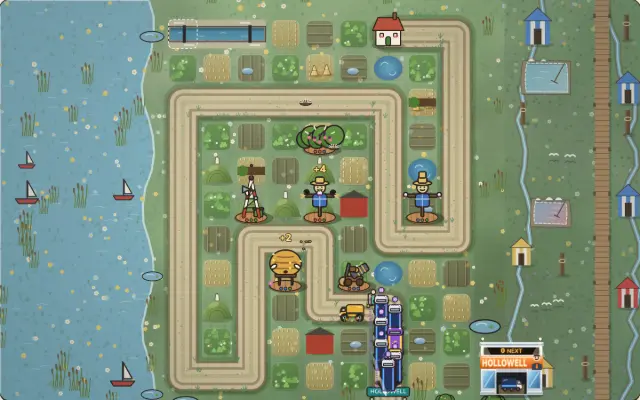
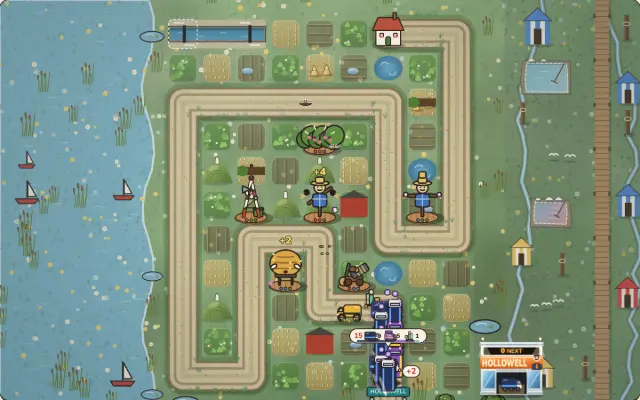
Hedgerow: the greyscale check over every vehicle; the lobbyist and the director's car get shapes of their own (plan item 285 done); key art re-shot; lane B notes, release .build-lock-b
Claude-Session: https://claude.ai/code/session_01SimvMN1RHBGCWN7Eo7MzhN

Changed region(s): [[0.5, 0.72, 0.6875, 0.99], [0.4688, 0.42, 0.5312, 0.54], [0.4375, 0.57, 0.5, 0.63]]

diff --git a/games/hedgerow/src/sprites.ts b/games/hedgerow/src/sprites.ts
@@ -1817,6 +1817,19 @@ export function drawEnemy(ctx: C, look: EnemyLook, x: number, y: number, s0: num
       break;
     case "director":
       vehicle(ctx, 0, 0, s, tt, { len: 0.8, h: 0.24, body: "#1d1f24", cab: "#1d1f24", stripe: "#d4ae58", wheels: 2 });
+      // Plan item 285: a pennant on the bonnet (the longer exec car has none), so it reads apart in greyscale.
+      if (fromAbove) rr(ctx, s * 0.3, -s * 0.02, s * 0.1, s * 0.04, s * 0.01, "#f4f6f8");
+      else {
+        rr(ctx, s * 0.28, -s * 0.5, s * 0.015, s * 0.22, s * 0.005, "#c9d0d6");
+        ctx.fillStyle = "#f4f6f8";
+        ctx.beginPath();
+        ctx.moveTo(s * 0.295, -s * 0.5);
+        ctx.lineTo(s * 0.43, -s * 0.45);
+        ctx.lineTo(s * 0.295, -s * 0.4);
+        ctx.closePath();
+        ctx.fill();
+        ctx.stroke();
+      }
       break;
     case "clinic":
       vehicle(ctx, 0, 0, s, tt, { len: 0.72, h: 0.36, body: "#f7fbfa", stripe: "#7fd1b9", label: "+", labelColor: "#2f9a7c", wheels: 3 });
@@ -2097,6 +2110,10 @@ export function drawEnemy(ctx: C, look: EnemyLook, x: number, y: number, s0: num
         ctx.beginPath();
         ctx.arc(hx, hy - s * 0.03, s * 0.08, Math.PI, 0);
         ctx.fill();
+        // Plan item 285: a clipboard held up beside the head (the lawyer carries a briefcase low), so the two read
+        // apart in greyscale and in outline.
+        rr(ctx, -s * 0.26, hy - s * 0.1, s * 0.13, s * 0.17, s * 0.015, "#f4f6f8");
+        rr(ctx, -s * 0.22, hy - s * 0.12, s * 0.05, s * 0.03, s * 0.01, "#3a3d44");
       });
       break;
     case "carrier": {

diff --git a/games/hedgerow/src/main.ts b/games/hedgerow/src/main.ts
@@ -799,6 +799,8 @@ if (SANDBOX)
     silhouette: towerSilhouette,
     // Plan item 105: a vehicle's 2D silhouette and drawn length at a cell size.
     enemySilhouette,
+    // Plan item 285: every vehicle's icon, for the greyscale contact sheet.
+    enemyIcon,
     // Plan item 64: pin a round-end rosette now (e2e checks it covers no plot), and the plot cells' boxes.
     rosette: (round: number, reward: number, clean: boolean) => game && roundRosette(game, round, reward, clean),
     plotBoxes: () => (game ? plotBoxes(game) : []),

diff --git a/docs/plan/two-week-plan.md b/docs/plan/two-week-plan.md
@@ -2824,7 +2824,7 @@ The items come from fresh-eyes audits on 2026-11-01 and 2026-11-02 (items 25-32:
 - **Accept:** at D her face 40 px+ tall at the default camera, eyes, liner and the raised right brow visible; a cheer on a wave clear (e2e hook); draw calls +30 or fewer; gate 1 holds; hedgerow 3D specs pass; shots P and D, 3D and `?2d`.
 - **Size:** 2
 
-## 285. [ ] Hedgerow 2D: the fleet as characterful, animated sprites *(lane B, in progress)* *(slice 1, 2026-11-08 09:46 lane B: a van that falls tips and spills three parcels that tumble across the lane over 0.5 s (none under reduced motion); `window.hedgerow2d.tip(kind, x, y)` in the sandbox stages it. Checked, already there: a driver in the cab (item 256), a wheel bob, exhaust puffs, a hit flash and squash, vines on a slowed vehicle. Size: on a vertical lane, side-on sprites past 1x overhang the plots (item 266), so 44 px at D needs top-down sprites for up/down runs: left for a later slice. vehicles, gatequeue, depot, swarm, critique pass (55); key art re-shot; shots scratchpad tips2)* *(09:55, **tried and reverted:** five health pips over damaged big vehicles: on D l34 a round is 144+ lorries nose to tail (shot scratchpad pip-24), so bars over each would bury the lane; damage keeps reading by the cracks (crackStage). A pip bar fits bosses only, if at all. Left: top-down sprites for up/down lane runs so vehicles can reach 44 px at D, greyscale distinction check, a sprite-per-id unit test)* *(slice 2, 2026-11-08 10:45 lane B: `tests/hedgerow-sprites-all.test.ts` draws every enemy id (39) into a recording canvas and checks each draws a body of its own, with a control that an unknown id draws only its shadow. Left: top-down sprites for up/down runs (44 px at D), greyscale check)* *(2026-11-08 11:30 lane B, checked: in greyscale (plan1108c/hedge-l34-2d-D) the Box Lorries read apart by shape (box body, white cab, three wheels). Left: top-down sprites for up/down runs)* *(slice 3, 2026-11-13 02:50 lane B: on an up or down run of the lane the 12 kinds drawn by `vehicle` alone (van, phantom, truck, tender, director, clinic, hatchback, sprinter, lorry, artic, execcar, rival, `TOP_DOWN`) are drawn from above, nose along the lane: roof and cab, a windscreen, the livery down both sides, the label on the roof, wheels at the corners, headlights (`vehicleTop`; `drawEnemy` turns it a quarter about the body's centre from `runOf`, the lane's heading at its distance); the fleet-lock tint and cracks turn with it, status icons stay upright. Key art re-shot. sprites-all, tower-idle, keyart-fresh pass; hedgerow-silhouettes, cath2d, gatequeue, depot pass at P and D (gatequeue's notebook case failed once under load, passes alone); shots scratchpad td285-{D,P}. Left: the other kinds' from-above views (the wrapped van, bus, crane, influencer...), then the 44 px length on vertical runs)* *(slice 4, 2026-11-13 03:40 lane B: ten more kinds from above on up/down runs, each with its extra redrawn for the view: the boss's, convoy's and board's crowns on the roof, the board's four heads through the sunroof, the bus's flag at the roof's tail, the pickup's crate in the bed, the plated lorry's rivets down both sides, the skip's container, the crane's boom folded along it, the dozer's blade across the nose, the transporter's top-deck cars; 22 kinds in `TOP_DOWN`. Key art re-shot. sprites-all (41), keyart-fresh, hedgerow-silhouettes, cath2d, gatequeue, depot pass (27); shots scratchpad td285b-{0,1}. Left: the wrapped van and the influencer (their shells and flourishes), the non-`vehicle` kinds (ship, dozers, courier, borer, quad, carriers...), then the 44 px length on vertical runs)* *(slice 5, 04:00: the wrapped van (its bubble shell an oval over the roof) and the influencer (its ring light glowing over the sunroof, the pole hidden) from above too: every kind drawn by `vehicle` (24) now turns with the lane. Key art re-shot; sprites-all, keyart-fresh, silhouettes, cath2d, gatequeue pass (24); shot scratchpad td285c. Left: the non-`vehicle` kinds (ship, dozers, courier, borer, quad, carriers, the Candor fleet), then the 44 px length on vertical runs)* *(slice 6, 2026-11-13 04:45 lane B: the small vehicles grow so the shortest reads 44 px long at D (28 on a phone) at level 21's 64 px cell (41 px at level 34 on a phone): `enemyScale` maps the side-view length of the hatchback, influencer, rival, pickup, van, phantom, wrapped van, sprinter, tender, truck and director onto 0.69-1.1 of a cell (44-69 px at D), the big ones unchanged; drawing only (the sim and 3D have their own scale). The sprinter gets a high roof (from above a light bar), since at the new size its outline matched the van's (IoU 0.898 before, already at the 0.9 line; 0.77 now). hedgerow-vehicles, gatequeue, silhouettes, cath2d, depot, threat pass (37); sprites-all (41); key art re-shot; shots scratchpad len285-{D,P}. Left: the non-`vehicle` kinds from above (ship, dozers, courier, borer, quad, carriers, Candor), a greyscale distinction shot)* *(slice 7, 2026-11-13 05:40 lane B: the last ground vehicles from above (`TOP_VIEW`): the bulldozer and megadozer (tracks, glass cab roof, blade across the nose, the megadozer's crown), the courier (deck, rider's helmet, parcel box), the borer (its drill across the nose), the container ship (pointed bow, container deck, bridge at the stern). The Candor spheres keep their view (round from any side) and the quads, carriers, drones, blimp and swarm fly (no road heading). Key art re-shot; sprites-all, keyart-fresh, vehicles, gatequeue, silhouettes, cath2d, depot pass (29); shot scratchpad td285d. Left: the greyscale distinction shot, then close)*
+## 285. [x] Hedgerow 2D: the fleet as characterful, animated sprites *(slice 1, 2026-11-08 09:46 lane B: a van that falls tips and spills three parcels that tumble across the lane over 0.5 s (none under reduced motion); `window.hedgerow2d.tip(kind, x, y)` in the sandbox stages it. Checked, already there: a driver in the cab (item 256), a wheel bob, exhaust puffs, a hit flash and squash, vines on a slowed vehicle. Size: on a vertical lane, side-on sprites past 1x overhang the plots (item 266), so 44 px at D needs top-down sprites for up/down runs: left for a later slice. vehicles, gatequeue, depot, swarm, critique pass (55); key art re-shot; shots scratchpad tips2)* *(09:55, **tried and reverted:** five health pips over damaged big vehicles: on D l34 a round is 144+ lorries nose to tail (shot scratchpad pip-24), so bars over each would bury the lane; damage keeps reading by the cracks (crackStage). A pip bar fits bosses only, if at all. Left: top-down sprites for up/down lane runs so vehicles can reach 44 px at D, greyscale distinction check, a sprite-per-id unit test)* *(slice 2, 2026-11-08 10:45 lane B: `tests/hedgerow-sprites-all.test.ts` draws every enemy id (39) into a recording canvas and checks each draws a body of its own, with a control that an unknown id draws only its shadow. Left: top-down sprites for up/down runs (44 px at D), greyscale check)* *(2026-11-08 11:30 lane B, checked: in greyscale (plan1108c/hedge-l34-2d-D) the Box Lorries read apart by shape (box body, white cab, three wheels). Left: top-down sprites for up/down runs)* *(slice 3, 2026-11-13 02:50 lane B: on an up or down run of the lane the 12 kinds drawn by `vehicle` alone (van, phantom, truck, tender, director, clinic, hatchback, sprinter, lorry, artic, execcar, rival, `TOP_DOWN`) are drawn from above, nose along the lane: roof and cab, a windscreen, the livery down both sides, the label on the roof, wheels at the corners, headlights (`vehicleTop`; `drawEnemy` turns it a quarter about the body's centre from `runOf`, the lane's heading at its distance); the fleet-lock tint and cracks turn with it, status icons stay upright. Key art re-shot. sprites-all, tower-idle, keyart-fresh pass; hedgerow-silhouettes, cath2d, gatequeue, depot pass at P and D (gatequeue's notebook case failed once under load, passes alone); shots scratchpad td285-{D,P}. Left: the other kinds' from-above views (the wrapped van, bus, crane, influencer...), then the 44 px length on vertical runs)* *(slice 4, 2026-11-13 03:40 lane B: ten more kinds from above on up/down runs, each with its extra redrawn for the view: the boss's, convoy's and board's crowns on the roof, the board's four heads through the sunroof, the bus's flag at the roof's tail, the pickup's crate in the bed, the plated lorry's rivets down both sides, the skip's container, the crane's boom folded along it, the dozer's blade across the nose, the transporter's top-deck cars; 22 kinds in `TOP_DOWN`. Key art re-shot. sprites-all (41), keyart-fresh, hedgerow-silhouettes, cath2d, gatequeue, depot pass (27); shots scratchpad td285b-{0,1}. Left: the wrapped van and the influencer (their shells and flourishes), the non-`vehicle` kinds (ship, dozers, courier, borer, quad, carriers...), then the 44 px length on vertical runs)* *(slice 5, 04:00: the wrapped van (its bubble shell an oval over the roof) and the influencer (its ring light glowing over the sunroof, the pole hidden) from above too: every kind drawn by `vehicle` (24) now turns with the lane. Key art re-shot; sprites-all, keyart-fresh, silhouettes, cath2d, gatequeue pass (24); shot scratchpad td285c. Left: the non-`vehicle` kinds (ship, dozers, courier, borer, quad, carriers, the Candor fleet), then the 44 px length on vertical runs)* *(slice 6, 2026-11-13 04:45 lane B: the small vehicles grow so the shortest reads 44 px long at D (28 on a phone) at level 21's 64 px cell (41 px at level 34 on a phone): `enemyScale` maps the side-view length of the hatchback, influencer, rival, pickup, van, phantom, wrapped van, sprinter, tender, truck and director onto 0.69-1.1 of a cell (44-69 px at D), the big ones unchanged; drawing only (the sim and 3D have their own scale). The sprinter gets a high roof (from above a light bar), since at the new size its outline matched the van's (IoU 0.898 before, already at the 0.9 line; 0.77 now). hedgerow-vehicles, gatequeue, silhouettes, cath2d, depot, threat pass (37); sprites-all (41); key art re-shot; shots scratchpad len285-{D,P}. Left: the non-`vehicle` kinds from above (ship, dozers, courier, borer, quad, carriers, Candor), a greyscale distinction shot)* *(slice 7, 2026-11-13 05:40 lane B: the last ground vehicles from above (`TOP_VIEW`): the bulldozer and megadozer (tracks, glass cab roof, blade across the nose, the megadozer's crown), the courier (deck, rider's helmet, parcel box), the borer (its drill across the nose), the container ship (pointed bow, container deck, bridge at the stern). The Candor spheres keep their view (round from any side) and the quads, carriers, drones, blimp and swarm fly (no road heading). Key art re-shot; sprites-all, keyart-fresh, vehicles, gatequeue, silhouettes, cath2d, depot pass (29); shot scratchpad td285d. Left: the greyscale distinction shot, then close)* *(slice 8, 2026-11-13 06:50 lane B, done: the greyscale check over all 39 kinds (their icons laid out under grayscale(1), shot scratchpad grey285, plus each pair's mean grey difference). Two pairs read alike and are fixed by shape, not colour: the lobbyist holds a clipboard up by his head (the lawyer's briefcase stays low; grey difference 0.009 to 0.025 and a different outline), the company director's car flies a bonnet pennant (the longer exec car has none). The two dozers differ by the megadozer's crown, its boss mark, kept. The sandbox hook exposes `enemyIcon` for the sheet. Key art re-shot; vehicles, gatequeue, silhouettes, cath2d, tray pass (37); sprites-all, keyart-fresh pass)*
 - **Why:** `plan1108b/hedge-l21-2d-D` (305-340 x 270-460): the Lifestyle influencers are ~30 px pink car glyphs; `hedge-l34-2d-D` (235-300 x 110-380): Box Lorries are flat blue boxes. In a Kingdom Rush-type game the enemies are stars; here they read as icons (item 280 covers only 3D).
 - **Build:** a drawn sprite per enemy type: a driver in the cab, a Hollowell livery, a bounce on the wheels and exhaust puffs; a hit flash, a slowed state (mud on the wheels), a defeat where the van tips and its parcels scatter; a health pip bar.
 - **Accept:** enemies 44 px+ long at D and 28 px+ at P; each type told apart in a greyscale shot; a unit test that every enemy id has a sprite; reduced motion no bounce; Hedgerow level tests and 2D specs pass; shots P and D, l21 and l34.

diff --git a/PROGRESS.md b/PROGRESS.md
@@ -6,7 +6,7 @@ Short by design (SPEC 16: under 150 lines). v1's full history (M0 to M7, every s
 - Owner session (11-09): the owner's release never landed and the pause ended 11-11 02:00 UTC. **Open:** Hedgerow level 12 at D: since item 250's portrait the bubble covers 21% of empty plots; the D bound is 30% there until the placement is reworked.
 - Lane A (04:51 11-13): item 319 slices 66-67 tried and REVERTED (they failed cathode-front's eyes-3:1 at D). `main` is 9097a68d; **the next release is 19:51 on 11-13**. Next: re-apply slice 67 (jaw lift 0.14 over z 0.3-0.95, which fixes the D pick's chin lump) alone and run the eyes-3:1 spec, then the critique.
 - Critique bugs from the 09:35 shots (`e2e/screenshots/plan1103d/`): NIGHT SHIFT wordmark 'H's: closed 2026-11-07 06:30 (lane A: whole at L and D at 8 s and 20 s; the SVG path, no dash left). Runnel P's spring house and garden: closed 2026-11-04 (item 106).
-- Lane B (05:21, 11-13): item 285 slice 7 (the dozers, courier, borer and ship from above; every ground vehicle now turns with the lane). Lane B's open items: 268, 282, 285, 331. Unclaimed: 321, 334, 338.
+- Lane B (06:21, 11-13): item 285 done (the greyscale check; the lobbyist's clipboard and the director's pennant set the two look-alike pairs apart). Lane B's open items: 268, 282, 331. Unclaimed: 321, 334, 338.
 - Critique bugs from the 2026-11-08 08:15 shots (`e2e/screenshots/plan1108b/`, lane A): `hedge-menu-D` the act-4 'Beyond the hedge' note cut at the viewport foot (527-913 x 850-900, likely just the scroll); `hedge-menu-P` Hollowell boards beside 'The Unboxing' (10-100 x 380-405) and 'Golden Hour' (10-100 x 455-480), a block against 'Brand Ambassador' (320-385 x 515-555). The rest went into items 282, 283, 287 and 288.
 - Critique bugs from the 2026-11-05 09:30 shots (`e2e/screenshots/plan1105c/`, lane B): `cath-title-D` pennant hint ~13 px white on brown (1030-1280 x 800-818) and footer ~12 px (310-1130 x 872-886); `cath-title-P` small keys' labels ~12 px (85-305 x 692-735); `cath-setup-D` seed 'random' low contrast (655-840 x 795-835); `hedge-l34-2d-D` '485 coming' over a farmer (300-395 x 128-150); `hedge-menu-P` 'Brand Ambassador' (closed 2026-11-07 06:35 lane A: on its own label pill beside stop 30, off the road); `ns-title-D` neon sign clipped at the top (790-1150 x 0-45); `ns-play-P` FIXER tab cut (340-390 x 68-82); `games-P` hero ghosted (likely shot mid-entrance: check before fixing).
 - Critique bug seen 2026-11-04 13:30 (lane A, 1280x800): a Not-yet name cut on a 1280 desktop. Fixed 2026-11-04 14:15 (item 104 slice 1).
@@ -37,6 +37,7 @@ None (Vercel deployed 9aee11e on 2026-10-12). (The App Store launch is postponed
 - 2026-10-23 06:58 `30fba24`: CATHODE C18 "Every gun is a hero" (revolver, SMG, rifle, shotgun, sniper and break-open launcher rebuilt on the gun kit in one family of finishes, per-class choreography in `feel/arsenal.ts` with `ClassReload` and shell-by-shell shotgun loading, per-class ADS, recoil patterns, flashes and street light, SMG/rifle tracers 1 in 3, foley, scope glint perception, melee trauma, `arsenal-lineup`). All gates passed first try (1626 tests, Lighthouse 91); live version.json matches; browser smoke inconclusive (sandbox proxy), HTTP check passed; tag push 403 (harmless). 1st release today.
 
 ## Session log (newest first, last 15)
+- 2026-11-13 06:21 lane B (item 285 done): a greyscale contact sheet of all 39 Hedgerow vehicles found two look-alike pairs (lawyer/lobbyist, director/exec car); each gets a shape of its own (a raised clipboard, a bonnet pennant). Key art re-shot. vehicles, gatequeue, silhouettes, cath2d, tray (37), sprites-all, keyart-fresh pass. CI green on 0ff11a4.
 - 2026-11-13 05:21 lane B (item 285 slice 7): Hedgerow's remaining ground vehicles (bulldozer, megadozer, courier, borer, ship) get from-above views on vertical runs; spheres and fliers keep theirs by design. Key art re-shot. sprites-all, keyart-fresh, vehicles, gatequeue, silhouettes, cath2d, depot pass (29). CI green on 0d25741.
 - **2026-11-13 04:51 lane A session:** CI green on 0d257419. Item 319 slices 66 (form shade under the jaw and at the face's edge) and 67 (jaw lift fading only at the chin's front: fixed the D pick's chin lump; never pushed) together failed cathode-front's eyes-3:1 at D (2.42) and 66 was reverted to 0d257419's frontcath (which passes it). Other fails in that run: the upright DPR canvas (300 px, load) and the D title column (timeout), both under 2 workers. Passing: tsc, eslint, keyart-fresh (re-shot). Full `npm run check` not run (time). Shots scratchpad b0/a1-a6.
 - **2026-11-13 03:51 lane A session:** CI green on 0c8d208e. Item 319 slice 64: the phone title's dark 'slash' beside the nose was the head's ink hull (back faces of the nose's far flank pushed over the cheek), found by hiding meshes; the hull now sits 6 mm behind its part, which also calms the jagged lines on the hair by her cheek; the phone nose stroke softer. Slice 65: the hair's shadow down each face edge. Passing: tsc, eslint, keyart-fresh (re-shot twice), cathode-front + upright (45 + 2 timing/load flakes passing alone). Full `npm run check` not run (time). Shots scratchpad n0.
@@ -51,5 +52,3 @@ None (Vercel deployed 9aee11e on 2026-10-12). (The App Store launch is postponed
 - 2026-11-13 00:21 lane B (item 331, tried): a lit all-night shopfront in the title street's left third, reverted: a probe with the UI hidden found it drawn but dim (1.6x HDR) and exactly behind the menu's frosted glass; the plan notes where its light should go instead and at what strength. No code change kept. CI green on 6cb18fe.
 - 2026-11-12 23:21 lane B (item 297 done, 331 scoped): Hedgerow's D bubble docks in the panel when its best spot covers over 12% of the lane as well as of empty plots (levels 3, 5, 12 dock; 21, 34 keep clear bubbles); threat, catdock, debrief, flyin, host pass (21). 331's left-half lighting measured and scoped for a 3D slice. CI green on d6b1603.
 - 2026-11-12 22:21 lane B (claimed 331, slice 1): the title menu is frosted, rain-streaked glass at D with a neon wash and a lit frame (phone upright unchanged). cathode-front menu/title cases (9), site axe (8), ui-css-lint, cathode-type pass. Lane A's release re-gating (its fixes for three lane-B regressions) was running; the 'failed' CI on 0cb52b3 was a cancelled run, CI green on bc175cb.
-- 2026-11-12 21:21 lane B (item 282 slice): Pell is 120 px at the D table; the map key drops under his plate and the event ticket pins left of him at a balanced 132 px, clear of every hex. rival, table-cath, market-event-dressing, board-scale(s), desktop-no-scroll, plan-strip pass. (20:21's session ended at once: its lock push was rejected by a race.) CI green on 68ee67f.
-- 2026-11-12 19:21 lane B (268 slice, 326 and 333 closed): a Runnel e2e taps the lesson's targets until the field joins and checks Cath turns delighted; 326/333's remaining NIGHT SHIFT points moved into the items that restage those scenes (331, 334, 338); a 120 px Pell (282) met the map's (i) and the event ticket in the board's top-right corner, reverted with measurements in the plan. runnel-one-cath passes (12). CI green on 6c9e87d.

diff --git a/docs/archive/PROGRESS-v1.md b/docs/archive/PROGRESS-v1.md
@@ -4036,3 +4036,5 @@ want reminded of mid-game without leaving the Farm sheet. Full detail in DECISIO
 - 2026-11-12 17:21 lane B (item 297 slices 5-6): Hedgerow's D bubble docks in the side panel (over Coming up, never the tower packets) for a build phase where even the compact bubble covers over 12% of the empty plots (level 12); the lane now weighs like an empty plot in her bubble's placement. hedgerow-threat gains a docked branch and its level-12 bound drops to 0.15; threat, catdock, debrief, flyin pass (18). CI green on 9e2f509.
 - **2026-11-12 17:51 lane A session:** CI green on 5984cdcb. Item 319 slice 51: pearl studs 8 mm (the pale lump by her cheek at D). Slice 52: her face shaded after the skin's knee where it turns from the key (to 0.64, warm), so it models. Passing: cathode-front + upright face/eyes/looks/hero (16; 3:1 eye check after easing 0.58 -> 0.64), keyart-fresh (re-shot), tsc, eslint. Full `npm run check` not run (time). Shots scratchpad z319b.
 - **2026-11-12 18:51 lane A session:** CI green on a1717aa6. Item 319 slice 53: the Ghost's sling flat webbing laid on the coat (`coatStrap`), not a tube bowing out in front. Slice 54: the Fixer's tie a flat blade with a knot, the pocket square folded in peaks, on the coat. Jaw lift experiments reverted (no visible change). Passing: tsc, eslint, keyart-fresh (re-shot); cathode-classpick 12/15 (3 known D timing budgets, run under load). Full `npm run check` not run (time). Shots scratchpad b0/a2/fx3.
+- 2026-11-12 21:21 lane B (item 282 slice): Pell is 120 px at the D table; the map key drops under his plate and the event ticket pins left of him at a balanced 132 px, clear of every hex. rival, table-cath, market-event-dressing, board-scale(s), desktop-no-scroll, plan-strip pass. (20:21's session ended at once: its lock push was rejected by a race.) CI green on 68ee67f.
+- 2026-11-12 19:21 lane B (268 slice, 326 and 333 closed): a Runnel e2e taps the lesson's targets until the field joins and checks Cath turns delighted; 326/333's remaining NIGHT SHIFT points moved into the items that restage those scenes (331, 334, 338); a 120 px Pell (282) met the map's (i) and the event ticket in the board's top-right corner, reverted with measurements in the plan. runnel-one-cath passes (12). CI green on 6c9e87d.
